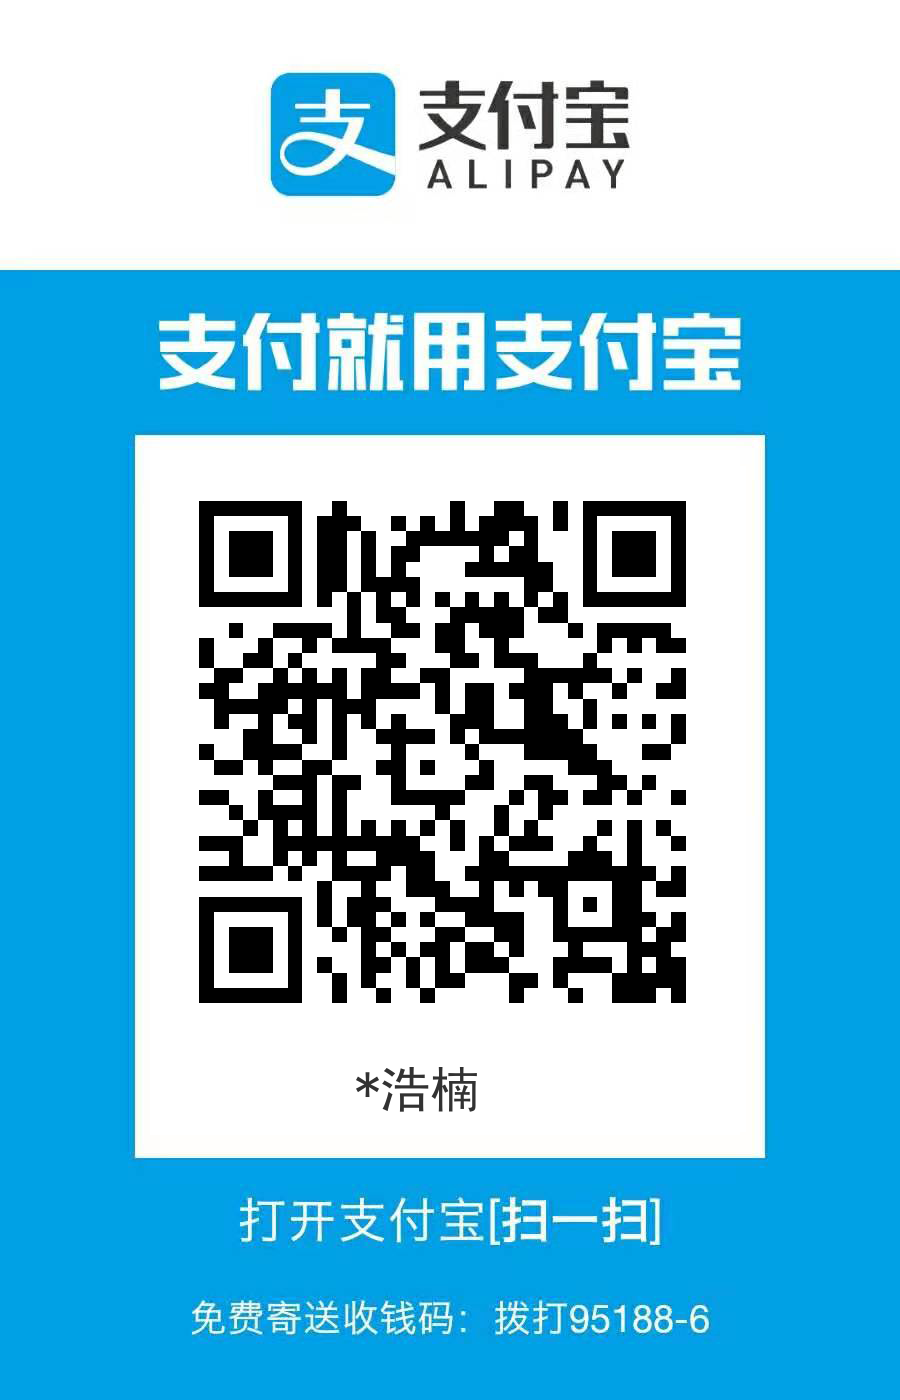
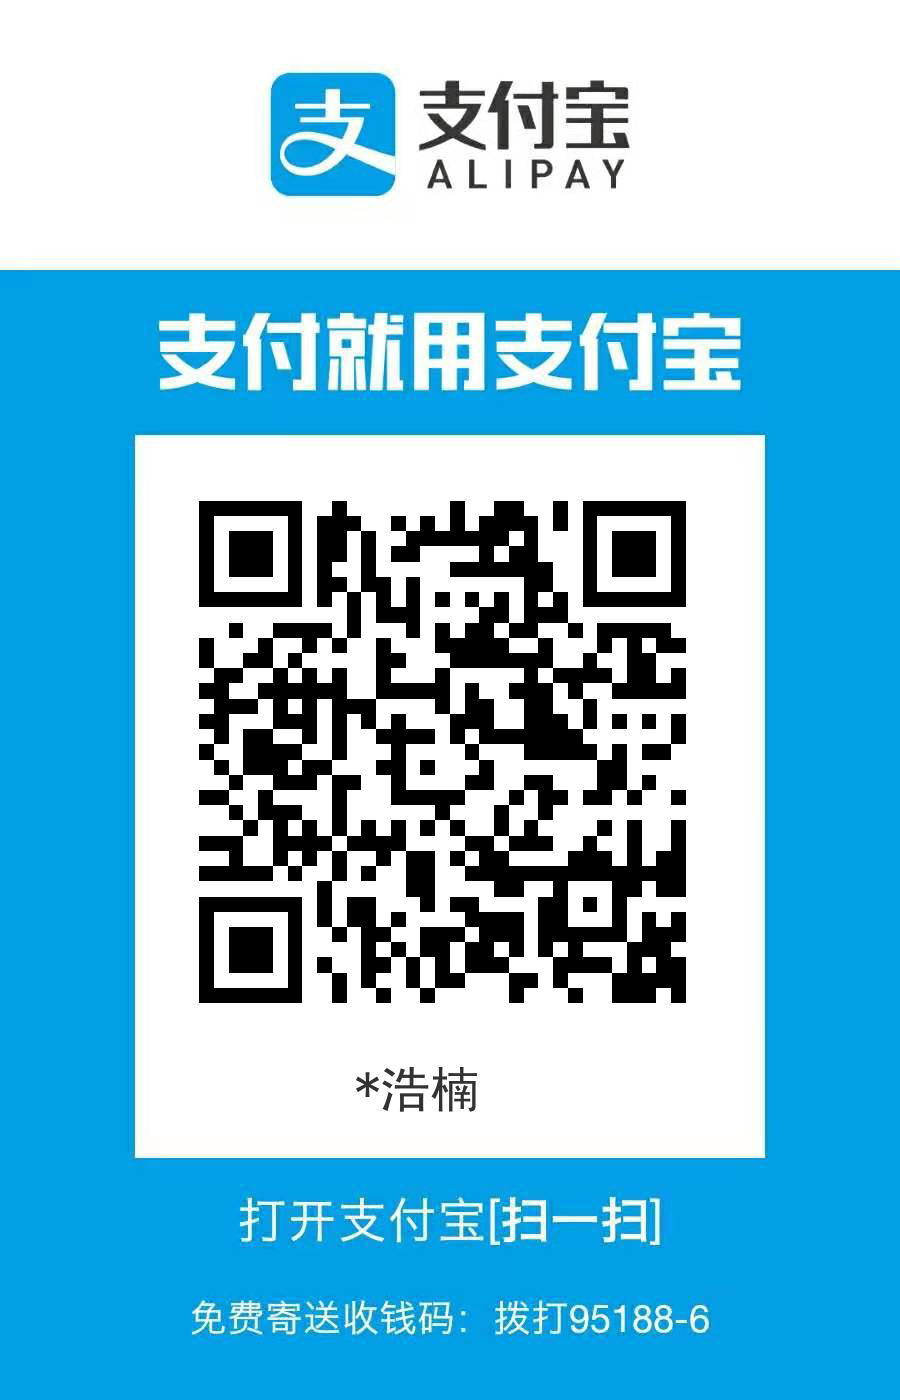
转账码

diff --git a/小爬虫/转账码生成/银行卡转账码/spider.py b/小爬虫/转账码生成/银行卡转账码/spider.py
@@ -127,7 +127,8 @@ class Spider:
         # 转码
         short_link = quote(short_link, string.digits)
         url = 'http://apis.juhe.cn/qrcode/api?text={}&el=&bgcolor=&fgcolor=&logo=&w=&m=&lw=&type=2&key=b142a4a659dfa5237bf54a78baf8382f'.format(short_link)
-        response = requests.get(url, headers=self.headers, verify=False)
+        # print(url)
+        response = requests.get(url, headers=self.headers, verify=False, timeout=10)
         with open('image/code.png', 'wb') as f:
             f.write(response.content)
             print('支付宝转账码生成成功!')
@@ -177,14 +178,13 @@ class Spider:
     def run(self):
         # 隐藏卡号url
         # cardID 隐藏卡号 获取方法  https://zhuanlan.zhihu.com/p/65495172
-        content = ['621721***3219', 'ICBC', '罗涛敏', '兴业银行 ', '2002181751667134341']
+        content = ['621799***8290', 'PSBC', '吴允树', '兴业银行 ', '2002211803542903956']
         _url = f'https://www.alipay.com/?appId=09999988&actionType=toCard&sourceId=bill&cardNo={content[0]}&' \
                f'bankAccount={content[2]}&money=&amount=&bankMark={content[1]}&bankName={content[3]}&cardIndex={content[4]}&cardNoHidden=true&cardChannel=HISTORY_CARD&orderSource=from'
-        print(_url)
 
         # 普通转账url
-        # content = self.read_txt()
-        # # 新接口
+        content = self.read_txt()
+        # 新接口
         # _url = f'https://ds.alipay.com/?from=mobilecodec&scheme=alipays%3A%2F%2Fplatformapi%2Fstartapp%3FappId%3D20000200' \
         #        f'%26actionType%3DtoCard%26sourceId=bill%26cardNo={content[1]}%26bankAccount={content[0]}%0A%26money=' \
         #        f'%26amount=%26bankMark={content[3]}%26bankName={content[4]}%26cardNoHidden=true%26cardChannel=HISTORY_CARD%26orderSource=from'

diff --git a/小爬虫/转账码生成/余额转账码/spider.py b/小爬虫/转账码生成/余额转账码/spider.py
@@ -171,6 +171,12 @@ class Spider:
             content = [i for i in content if i]
             return content
 
+    def Generate(self, data):
+        """生成记录"""
+        with open('image/生成记录.txt', 'a+', encoding='utf-8') as f:
+            f.write(data)
+            f.write('\n')
+
     def run(self):
         content = self.read_txt()
         print(content)
@@ -199,6 +205,11 @@ class Spider:
 
         # 短链生成二维码
         self.code_generate(short_link)
+
+        # 保存生成记录
+        data = f'{content[0]},{short_link},{_url}'
+        self.Generate(data)
+
         # 图片处理
         image_process = Picture()
         image_process.text = content[0]
